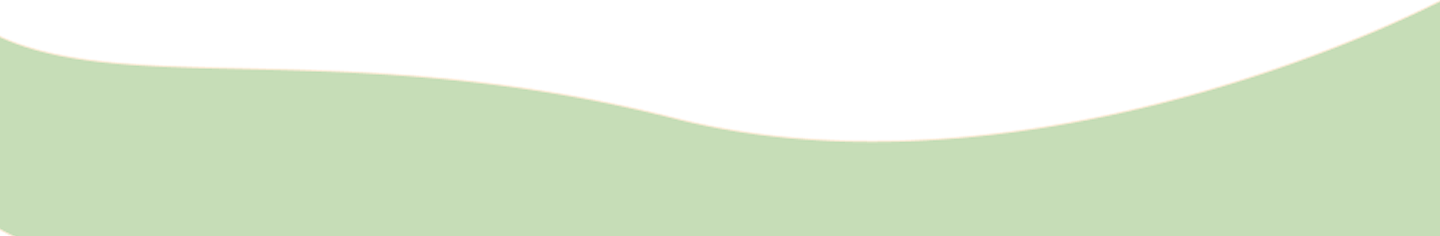
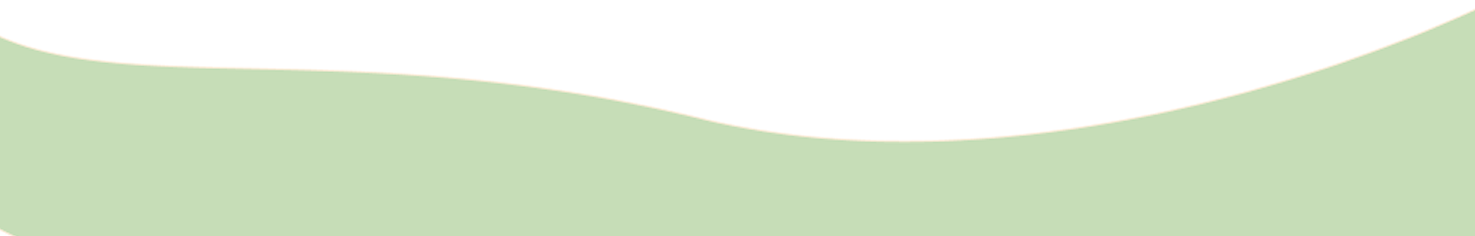
update

diff --git a/components/CategoriesSection.tsx b/components/CategoriesSection.tsx
@@ -3,7 +3,6 @@ import Image from "next/image";
 import Link from "next/link";
 import { categories } from "@/data/content";
 
-
 export default function CategoriesSection() {
   return (
     <section className="py-12 px-4 sm:px-6 md:px-12 bg-[#fafafa]">
@@ -14,9 +13,9 @@ export default function CategoriesSection() {
           </h2>
           <Link
             href="#"
-            className="bg-[#210603] text-white px-3 py-1.5 md:px-4 md:py-2 rounded text-xs md:text-sm"
+            className="bg-[#210603] text-white px-3 py-1.5 md:px-4 md:py-2 rounded text-xs md:text-sm hover:bg-[#6C2E23] transition-colors duration-300"
           >
-            Visit Store
+            Store front..
           </Link>
         </div>
 
@@ -24,7 +23,7 @@ export default function CategoriesSection() {
           {categories.map((category, index) => (
             <div
               key={index}
-              className="bg-white p-2 md:p-4 rounded-lg flex flex-col items-center"
+              className="bg-white p-2 md:p-4 rounded-lg flex flex-col items-center hover:bg-[#f5f5dc] hover:cursor-pointer transition-colors duration-300"
             >
               <div className="w-12 h-12 md:w-16 md:h-16 mb-1 md:mb-2">
                 <Image

diff --git a/data/content.ts b/data/content.ts
@@ -33,6 +33,17 @@ export const categories = [
   { name: "Soups", image: "/images/swallow.png" },
 ];
 
+// export const categories = [
+//   { name: "Restaurants", image: "/images/restaurant.png" },
+//   { name: "Supermarkets", image: "/images/supermarket.png" },
+//   { name: "Pharmacies", image: "/images/pharmacy.png" },
+//   { name: "Local Markets", image: "/images/local_market.png" },
+//   { name: "Packages", image: "/images/packages.png" },
+//   { name: "Hotel", image: "/images/coffee_shop.png" },
+// ];
+
+
+
   export const features = [
   {
     image: "location-1.png",

diff --git a/components/HeroSection.tsx b/components/HeroSection.tsx
@@ -1,4 +1,3 @@
-// components/HeroSection.tsx
 "use client";
 import { useState, useEffect } from "react";
 import Image from "next/image";
@@ -70,7 +69,7 @@ export default function HeroSection() {
 
       {/* Wave shape */}
       <div
-        className="absolute bottom-0 left-0 right-0 h-48 bg-cover bg-center" /* Increased height to h-48 */
+        className="absolute bottom-0 left-0 right-0 h-12 md:h-48 bg-cover bg-center"
         style={{ backgroundImage: "url('/images/grass.png')" }}
       ></div>
       {/* <CurvedDivider /> */}

diff --git a/components/icons.tsx b/components/icons.tsx
@@ -31,7 +31,7 @@ export const AppStoreIcon = ({ className }: { className?: string }) => (
   <svg
     stroke="currentColor"
     fill="currentColor"
-    stroke-width="0"
+    strokeWidth="0" // Corrected property name
     viewBox="0 0 1024 1024"
     className={className}
     height="24"
